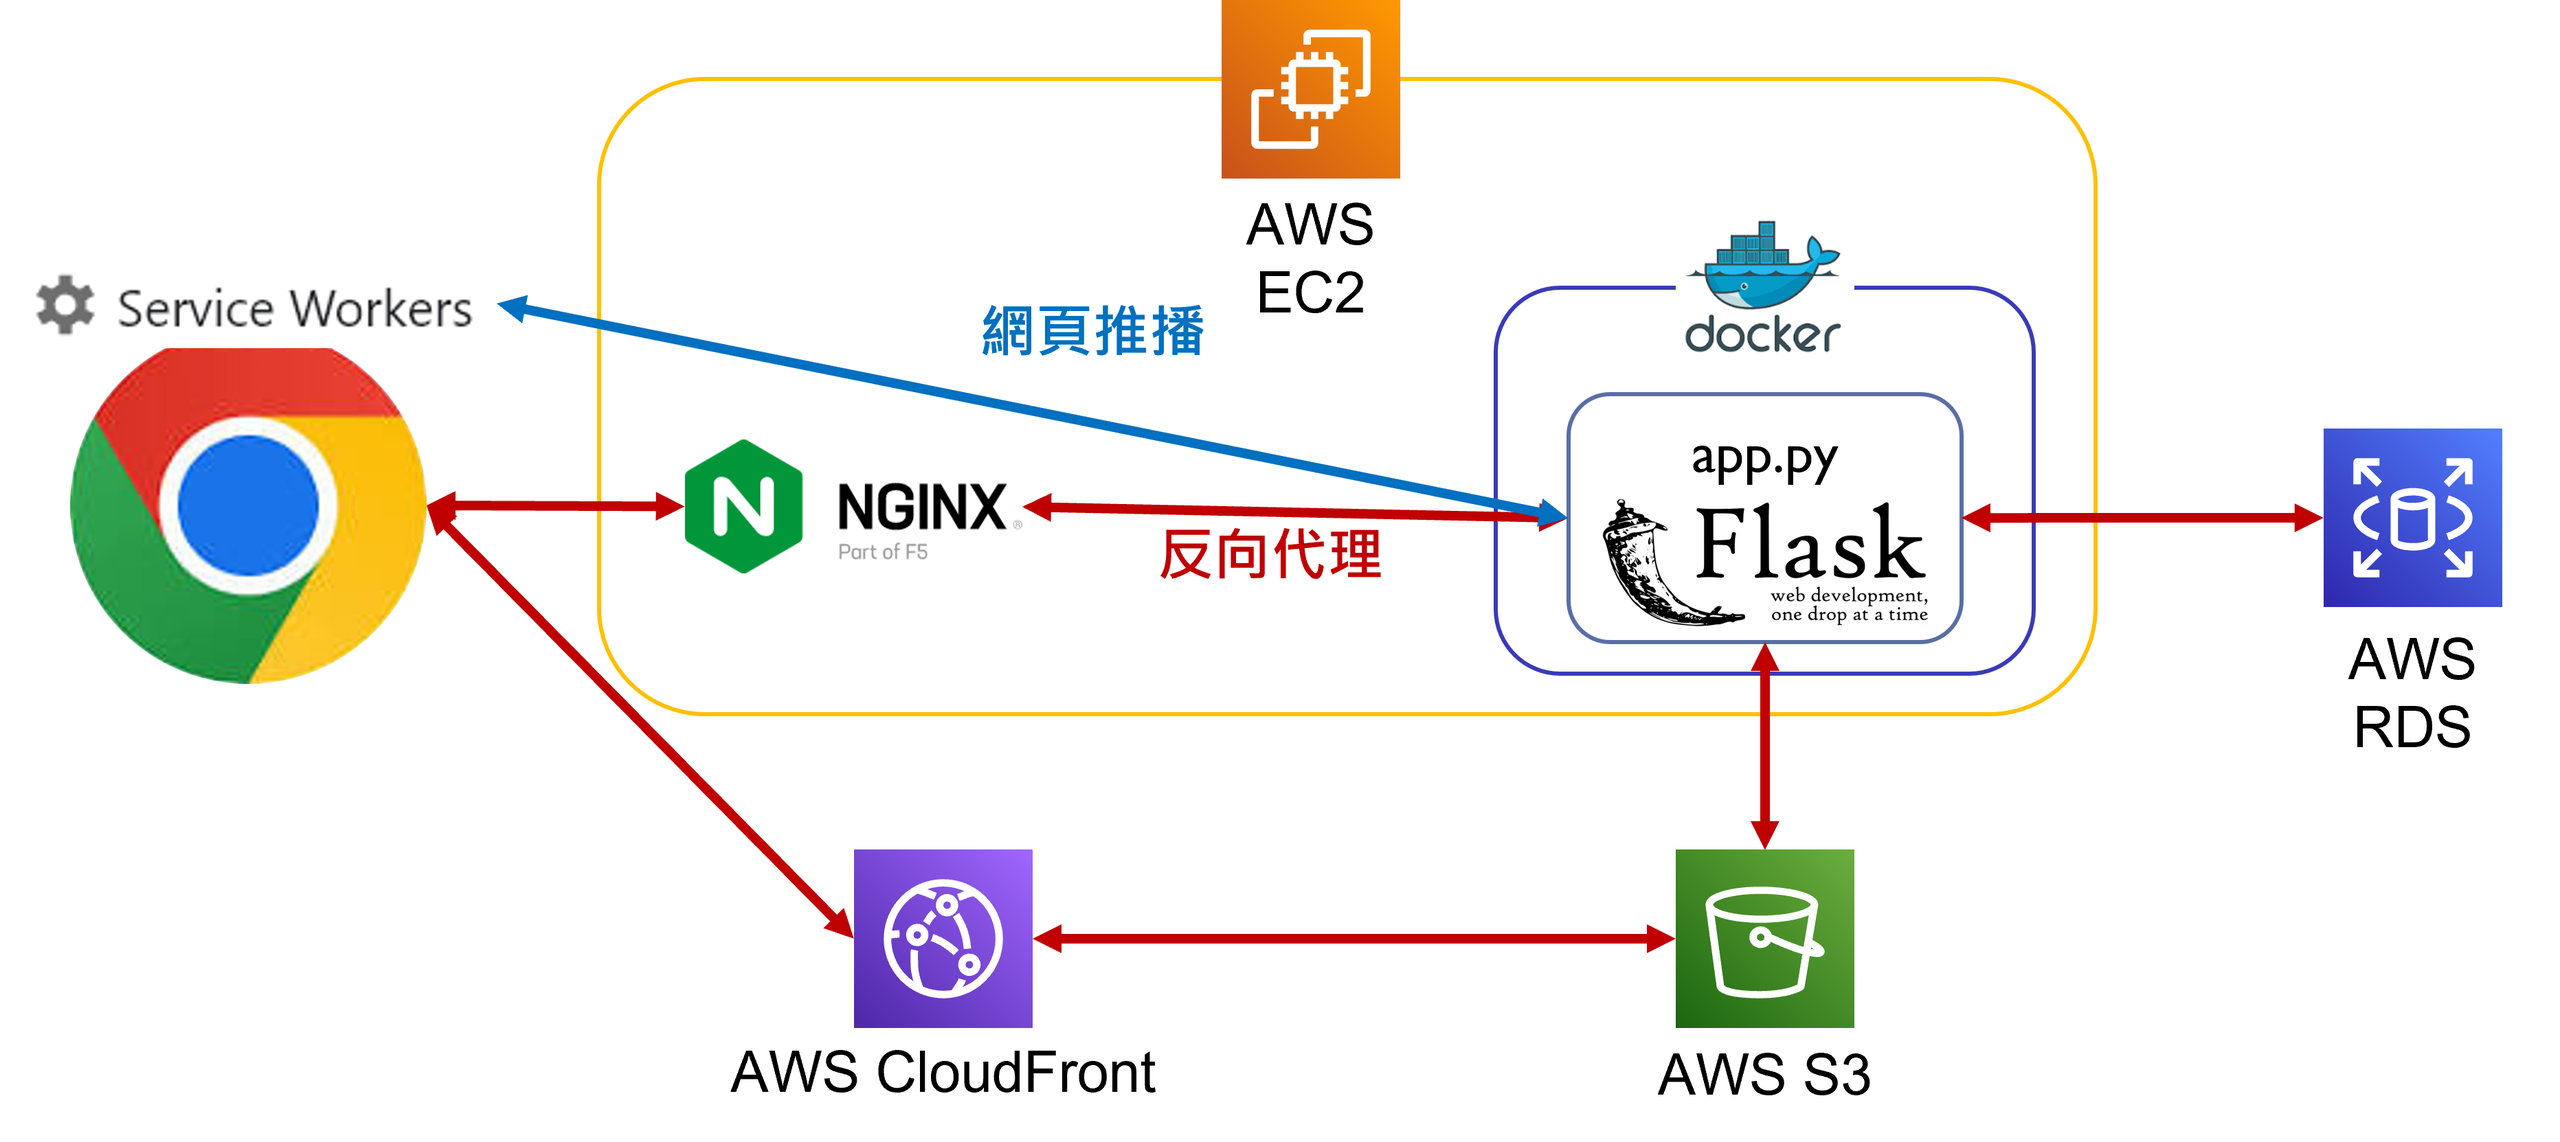
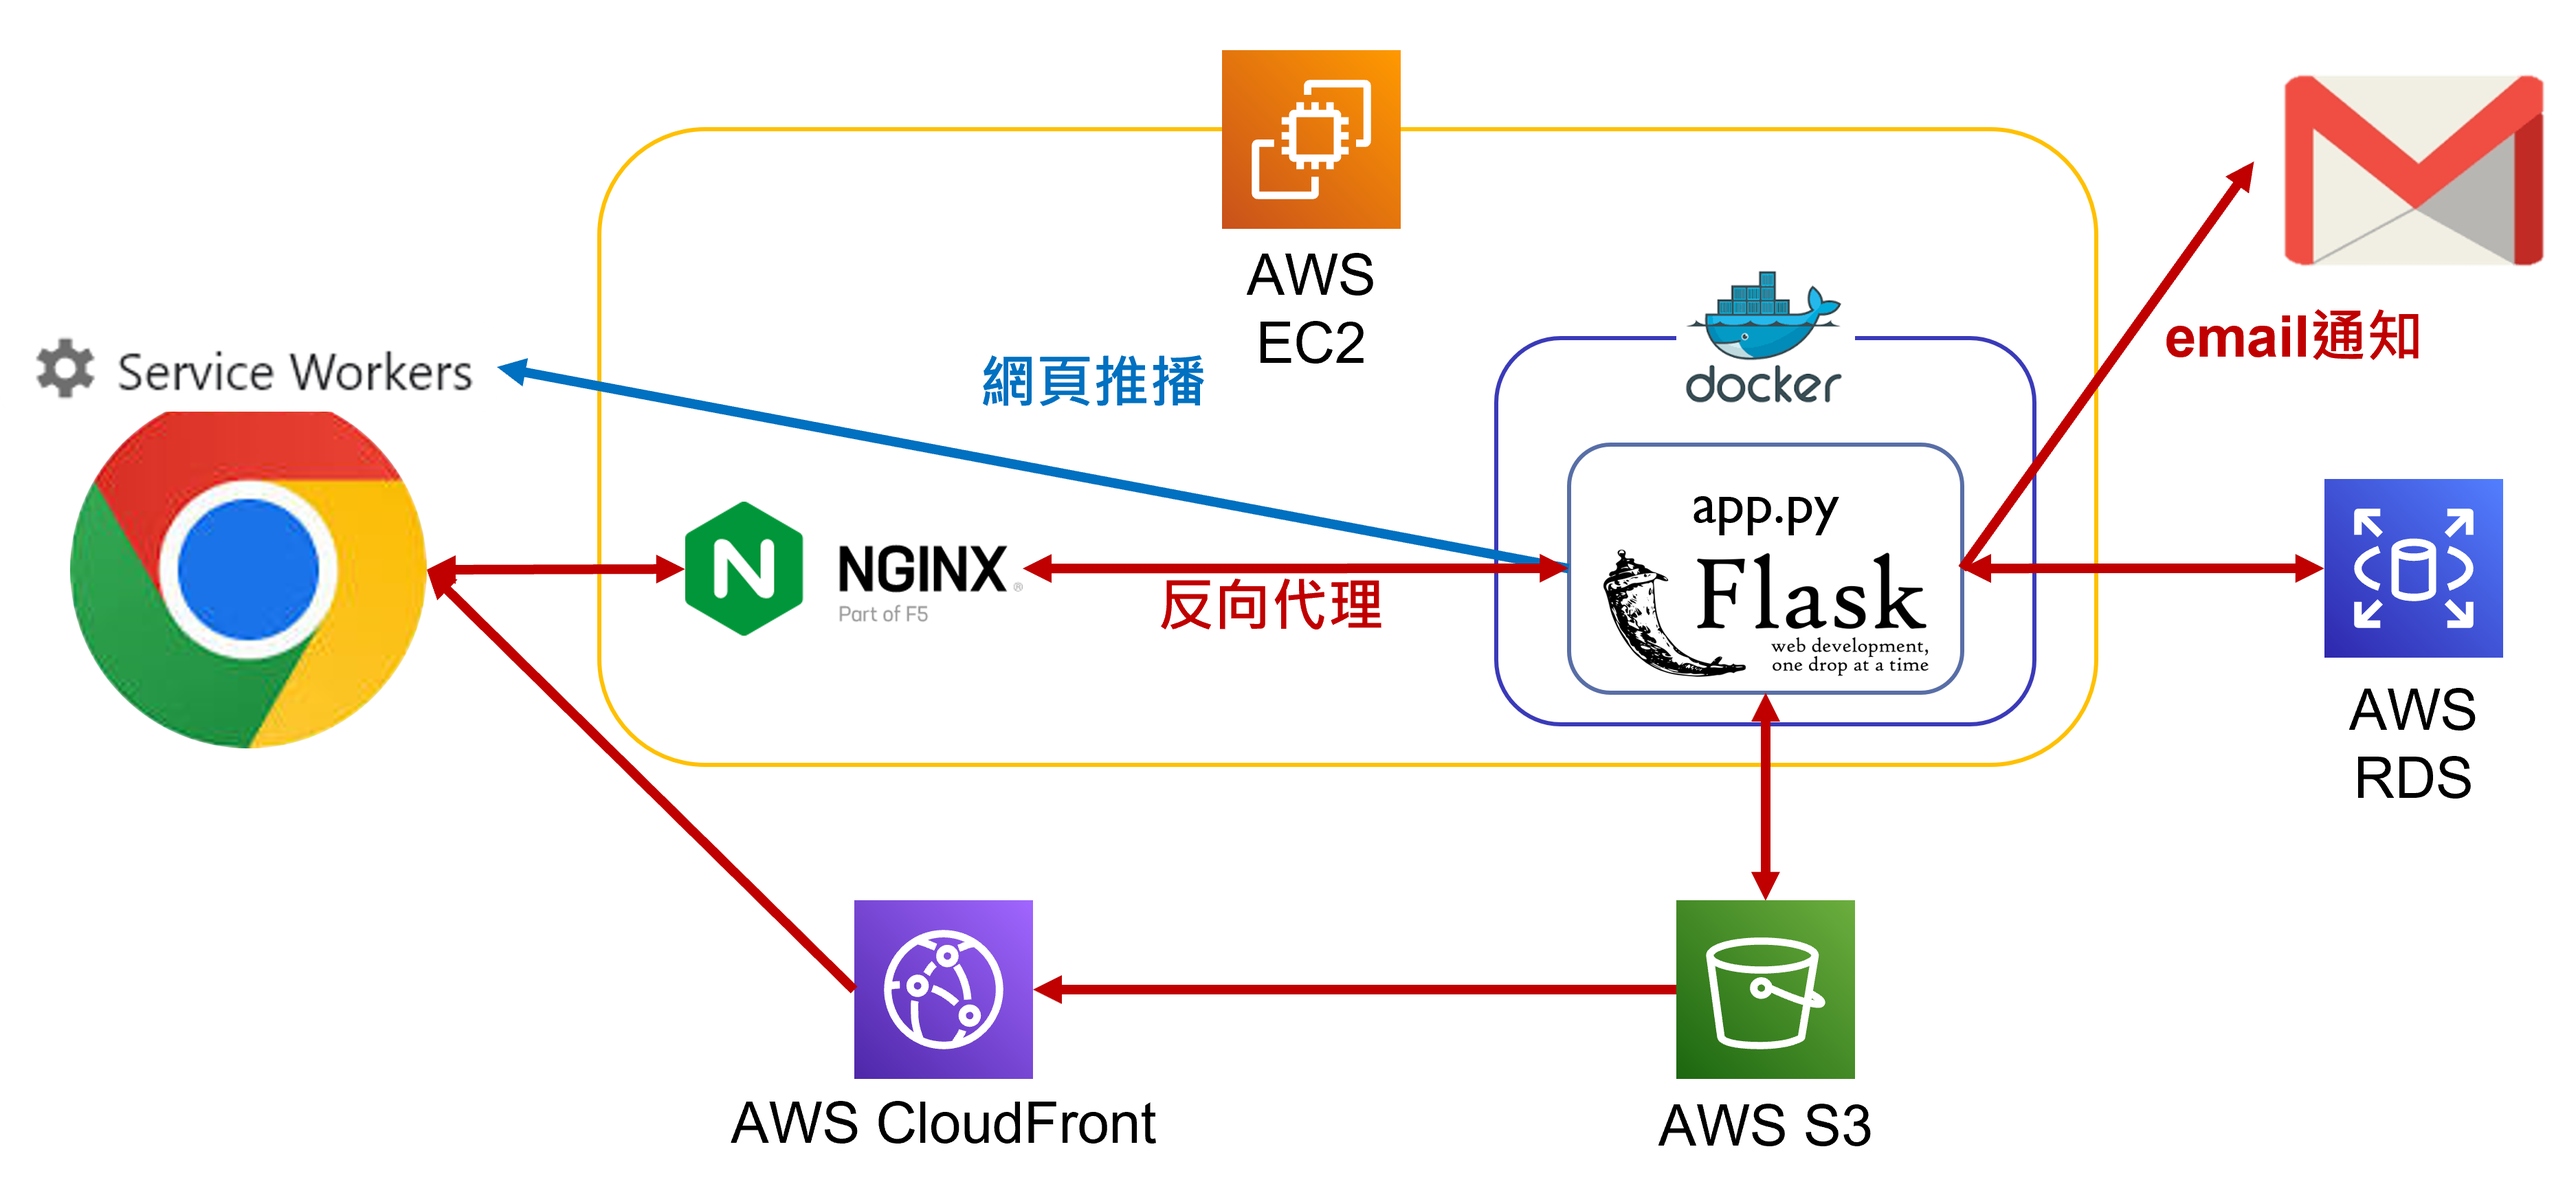
add README.

Changed region(s): [[0.0, 0.0, 0.9962, 0.9814], [0.2179, 0.1227, 0.2491, 0.1533]]

diff --git a/README.md b/README.md
@@ -4,11 +4,43 @@
 ### https://yin888.info/
 
 ## 簡介
-### 提供大盤及各股的基本資訊和基本的技術分析指標以協助判斷投資的股票標的，首頁提供前五權值股近三日的相關新聞。註冊會員系統並關注各股可以使用到價通知的功能，首頁也會顯示關注各股近三日的相關新聞。
+### 提供大盤及各股的基本資訊和基本的技術分析指標以協助判斷投資的股票標的，首頁提供前五權值股近3日的相關新聞。註冊會員系統並關注各股可以使用到價通知的功能，首頁也會顯示關注各股近3日的相關新聞。
 
 ## 功能
-### 
+*  訪客
+    *   移動平均線
+        *   10日線
+            ### 短期趨勢判斷。
+        *   月線
+            ### 中期趨勢判斷。
+        *   年線
+            ### 長期趨勢判斷。
+    *   各股資訊
+        *   本益比
+            ### 股價和近4季收益的比例，用於衡量一家公司的價值。公司收益提供近10日的本益比。
+        *   現金殖利率
+            ### 近4季現金股利和股價的比例，投資的報酬率。提供近10日的現金殖利率。
+        *   股價淨值比
+            ### 股價和每股淨值的比例，用於衡量一家公司的價值。提供近10日的股價淨值比。
+        *   近4季EPS
+            ### 每股盈餘。提供歷年EPS。
+        *   ROE(%)
+            ### 股東權益報酬率，一家公司運用自有資本的獲利效率。提供歷年ROE。
+*  會員
+    *   各股關注
+        *   到價通知
+            *   email
+                ### 當股價觸及目標股價，寄送email通知會員。(需驗證email)
+            *   網頁推播
+                ### 當股價觸及目標股價，網頁推播通知會員。(需訂閱推播通知)
+        *   新聞
+            ### 首頁呈現關注各股近3日的新聞。
+    *   各股留言板
+        ### 分享對於各股的看法。
 
 ## 網頁架構
 ![pic_web_framework](readme_pictures/web_framework.png)
 
+## 使用工具
+
+## 問題解決
